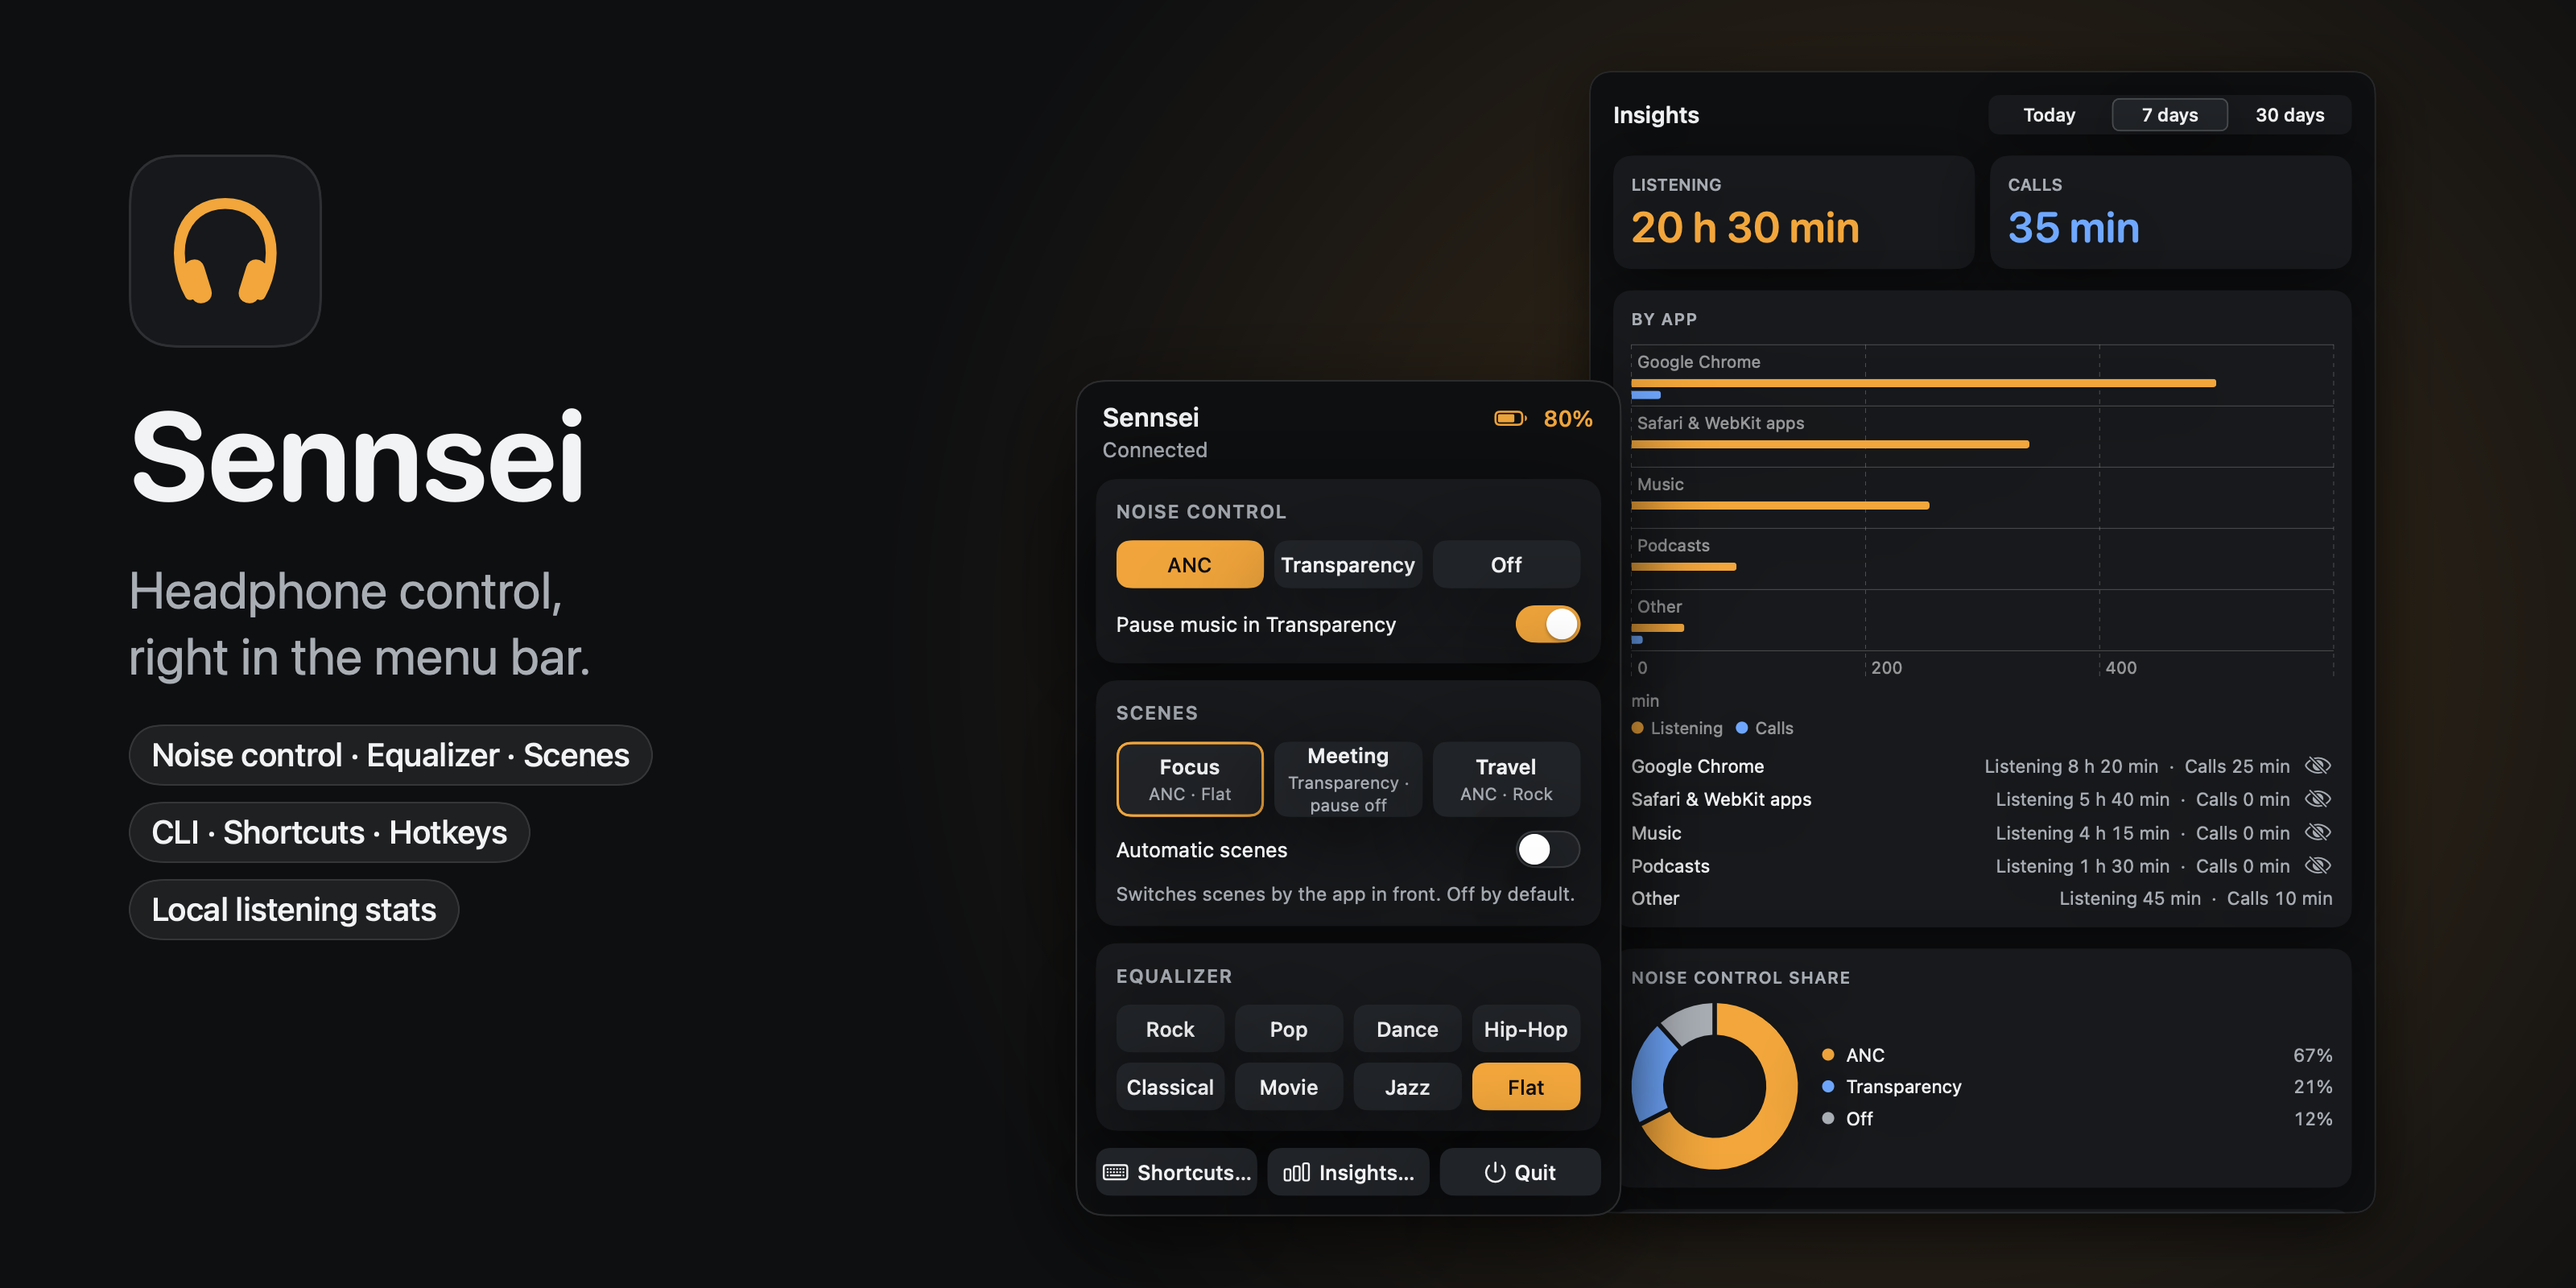
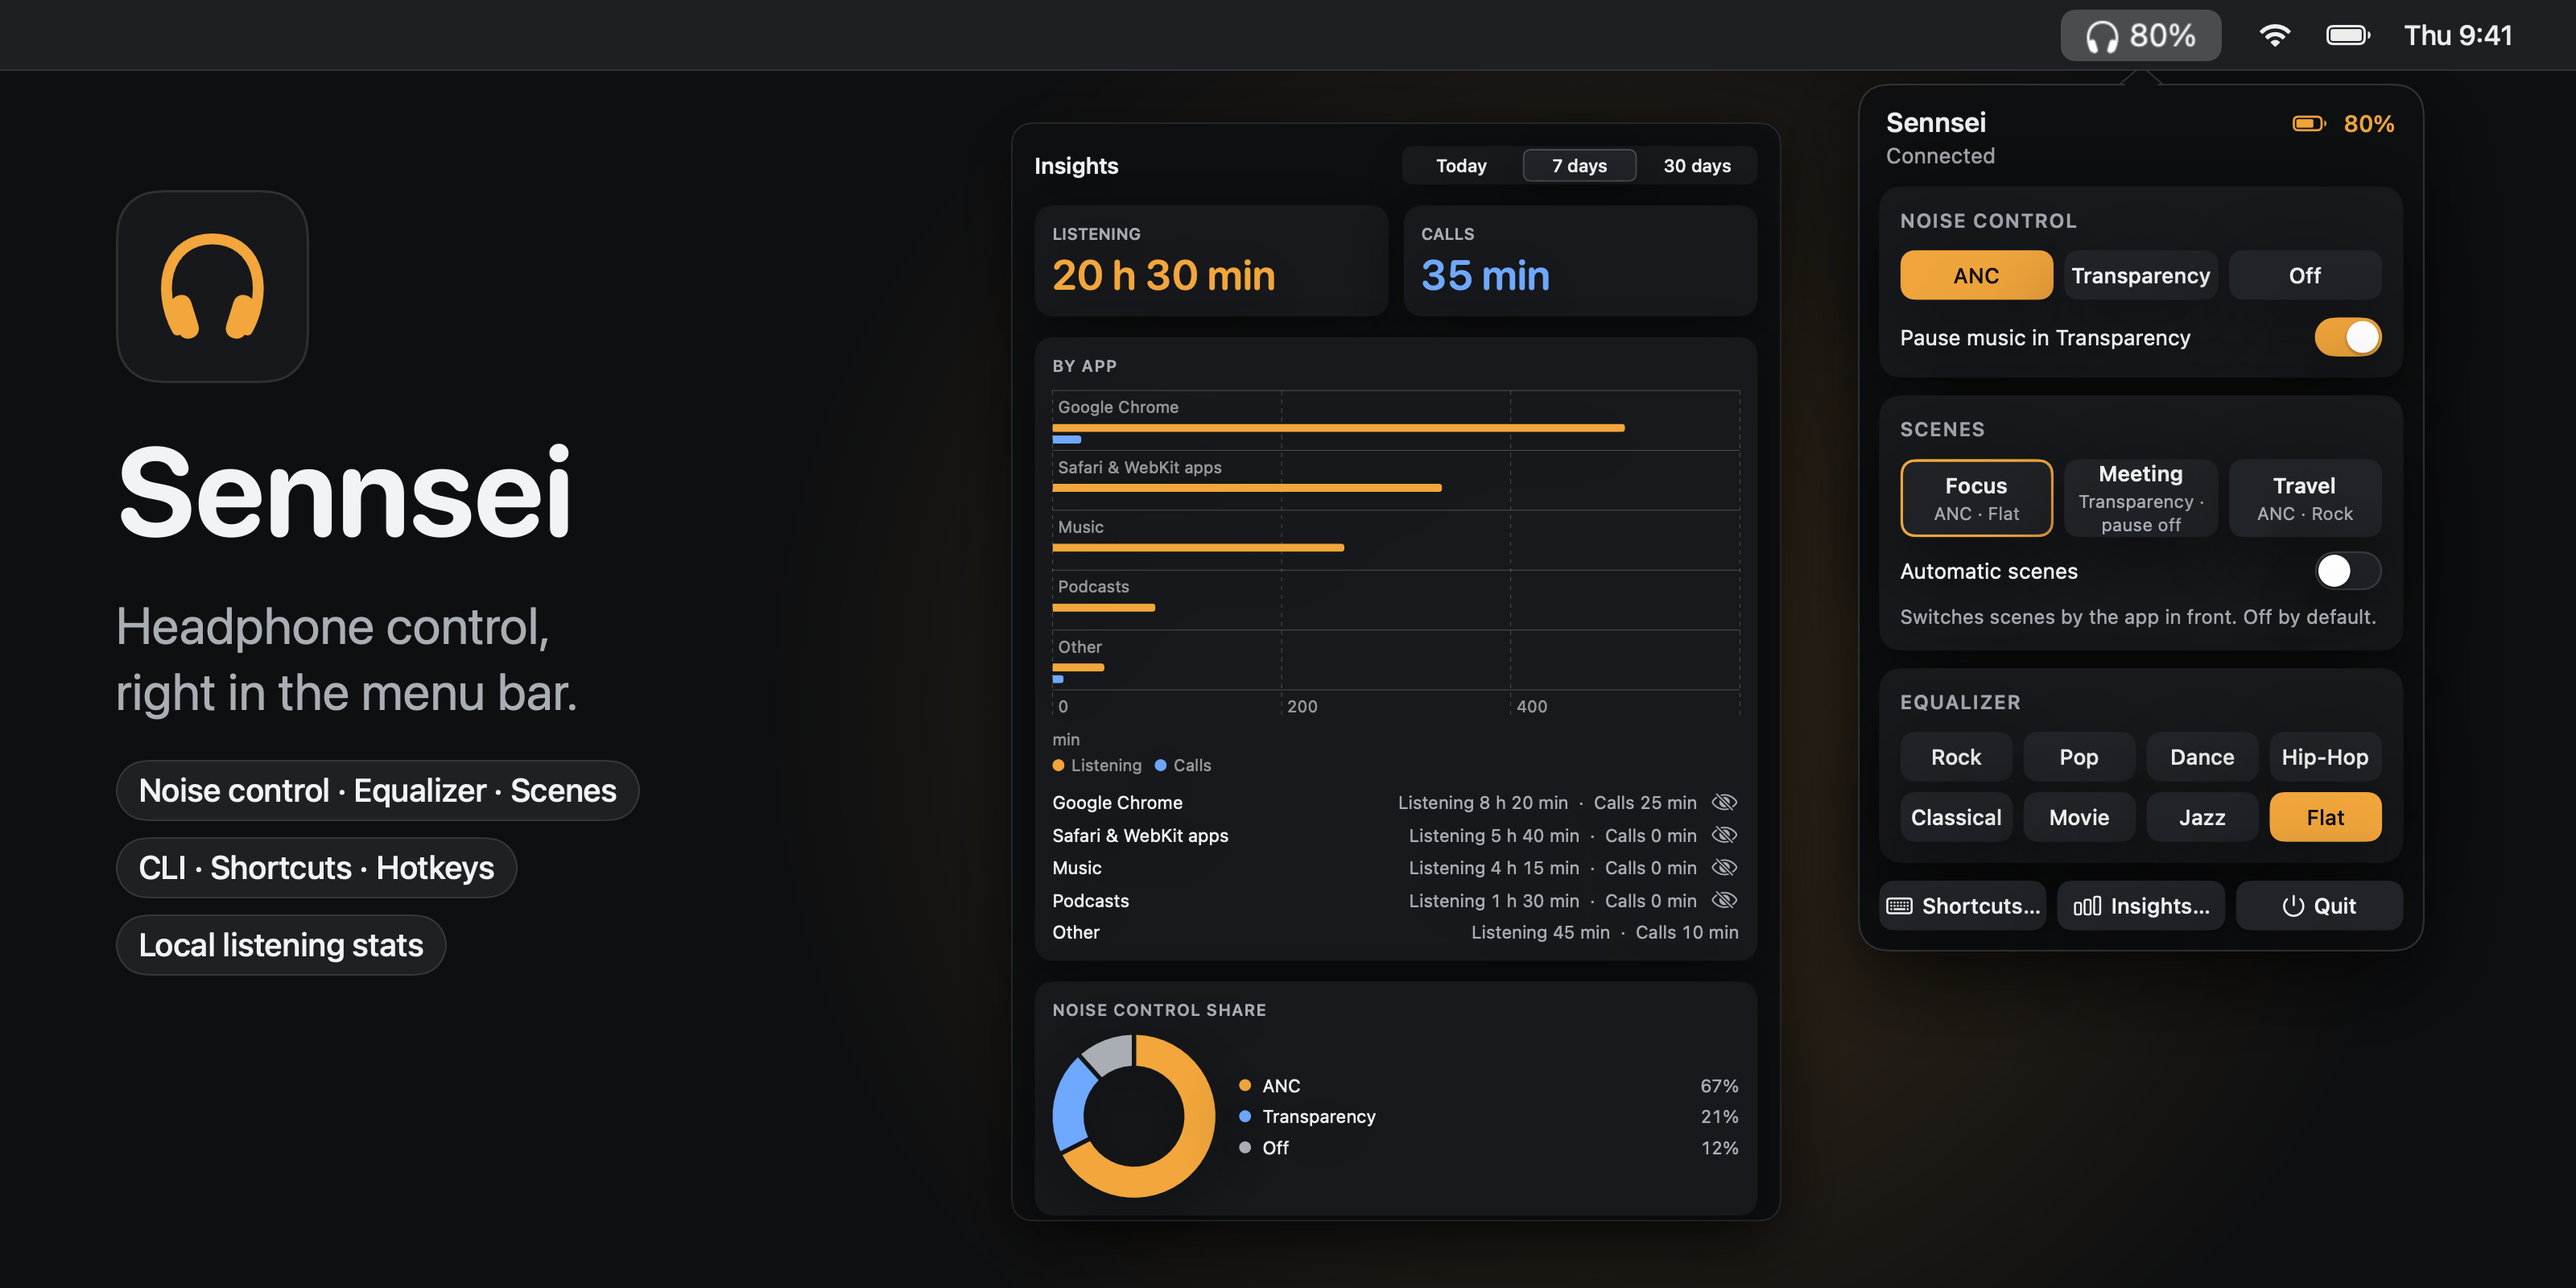
docs: hero with the menu bar attached panel

diff --git a/Packages/HeadsetKit/Sources/SennseiApp/PreviewRenderer.swift b/Packages/HeadsetKit/Sources/SennseiApp/PreviewRenderer.swift
@@ -108,20 +108,26 @@ enum PreviewRenderer {
     }
 }
 
-/// The repository's hero image (1600x800 points; README at 2x, GitHub social preview at 0.8x): mark, name,
-/// tagline and feature lines on the left, the Insights window (top part) behind and the panel in front.
+/// The repository's hero image (1600x800 points; README at 2x, GitHub social preview at 0.8x): a menu bar strip
+/// with the Sennsei item and the panel hanging from it like a popover, the Insights window (top part) to its
+/// left, and mark, name, tagline and feature lines at the far left.
 private struct HeroImage<Panel: View, Insights: View>: View {
     let panel: Panel
     let insights: Insights
 
     private let graphite = Color(red: 0x0E / 255, green: 0x0F / 255, blue: 0x11 / 255)
+    private let barHeight: CGFloat = 44
+    /// Horizontal centre of the Sennsei item; the panel's notch is centred under it.
+    private let itemCenter: CGFloat = 1330
+    private let panelScale: CGFloat = 1.1
 
     var body: some View {
         ZStack(alignment: .topLeading) {
             graphite
             RadialGradient(
-                colors: [Palette.amber.opacity(0.20), .clear], center: UnitPoint(x: 0.74, y: 0.5),
-                startRadius: 10, endRadius: 640)
+                colors: [Palette.amber.opacity(0.18), .clear], center: UnitPoint(x: 0.62, y: 0.55),
+                startRadius: 10, endRadius: 520)
+
             VStack(alignment: .leading, spacing: 20) {
                 AppMark(size: 120)
                 Text("Sennsei")
@@ -143,30 +149,82 @@ private struct HeroImage<Panel: View, Insights: View>: View {
                 }
                 .padding(.top, 4)
             }
-            .padding(.leading, 80)
-            .padding(.top, 96)
+            .padding(.leading, 72)
+            .padding(.top, 118)
 
-            // Insights: only the top part (header, totals, by-app chart, noise share), behind the panel.
+            // Insights: only the top part (header, totals, by-app chart, noise share).
             insights
                 .fixedSize()
-                .frame(width: 520, height: 755, alignment: .top)
+                .frame(width: 520, height: 742, alignment: .top)
                 .clipped()
                 .clipShape(RoundedRectangle(cornerRadius: 14, style: .continuous))
                 .overlay(RoundedRectangle(cornerRadius: 14, style: .continuous).strokeBorder(Color.white.opacity(0.10), lineWidth: 1))
                 .shadow(color: .black.opacity(0.5), radius: 22, y: 10)
-                .scaleEffect(0.94, anchor: .topLeading)
-                .offset(x: 987, y: 44)
+                .scaleEffect(0.92, anchor: .topLeading)
+                .offset(x: 628, y: 76)
+
+            // The panel, hanging from the menu bar item like a popover.
             panel
                 .fixedSize()
                 .clipShape(RoundedRectangle(cornerRadius: 16, style: .continuous))
-                .overlay(RoundedRectangle(cornerRadius: 16, style: .continuous).strokeBorder(Color.white.opacity(0.12), lineWidth: 1))
+                .overlay(RoundedRectangle(cornerRadius: 16, style: .continuous).strokeBorder(Color.white.opacity(0.14), lineWidth: 1))
                 .shadow(color: .black.opacity(0.6), radius: 28, y: 14)
-                .scaleEffect(1.06, anchor: .topLeading)
-                .offset(x: 668, y: 236)
+                .scaleEffect(panelScale, anchor: .topLeading)
+                .offset(x: itemCenter - 320 * panelScale / 2, y: barHeight + 8)
+            Notch()
+                .fill(Palette.ground)
+                .overlay(Notch().stroke(Color.white.opacity(0.14), lineWidth: 1))
+                .frame(width: 26, height: 11)
+                .offset(x: itemCenter - 13, y: barHeight - 3)
+            // Hide the notch's own outline where it joins the panel.
+            Palette.ground.frame(width: 20, height: 3).offset(x: itemCenter - 10, y: barHeight + 7)
+
+            menuBar
         }
         .frame(width: 1600, height: 800, alignment: .topLeading)
         .clipped()
         .environment(\.colorScheme, .dark)
+    }
+
+    private var menuBar: some View {
+        let glyph = MenuBarGlyph.image(symbolName: "headphones", text: "\(PreviewSamples.batteryPercent)%")
+        let scale: CGFloat = 1.5
+        return ZStack(alignment: .topLeading) {
+            Color(red: 0x1D / 255, green: 0x1F / 255, blue: 0x23 / 255)
+            Rectangle().fill(Color.white.opacity(0.09)).frame(height: 1).offset(y: barHeight - 1)
+            // The item as it looks while its panel is open: highlighted pill, template glyph drawn white.
+            let width = glyph.size.width * scale + 28
+            RoundedRectangle(cornerRadius: 9, style: .continuous)
+                .fill(Color.white.opacity(0.20))
+                .frame(width: width, height: 32)
+                .offset(x: itemCenter - width / 2, y: 6)
+            Image(nsImage: glyph)
+                .renderingMode(.template)
+                .resizable()
+                .interpolation(.high)
+                .foregroundStyle(Color.white)
+                .frame(width: glyph.size.width * scale, height: glyph.size.height * scale)
+                .offset(x: itemCenter - glyph.size.width * scale / 2, y: (barHeight - glyph.size.height * scale) / 2)
+            HStack(spacing: 18) {
+                Image(systemName: "wifi").font(.system(size: 17, weight: .medium))
+                Image(systemName: "battery.100percent").font(.system(size: 19, weight: .regular))
+                Text("Thu 9:41").font(.system(size: 17, weight: .medium))
+            }
+            .foregroundStyle(Color.white.opacity(0.92))
+            .frame(height: barHeight)
+            .offset(x: itemCenter + (glyph.size.width * scale + 28) / 2 + 22)
+        }
+        .frame(width: 1600, height: barHeight, alignment: .topLeading)
+    }
+}
+
+private struct Notch: Shape {
+    func path(in rect: CGRect) -> Path {
+        var path = Path()
+        path.move(to: CGPoint(x: rect.minX, y: rect.maxY))
+        path.addLine(to: CGPoint(x: rect.midX, y: rect.minY))
+        path.addLine(to: CGPoint(x: rect.maxX, y: rect.maxY))
+        return path
     }
 }
 

diff --git a/README.md b/README.md
@@ -31,7 +31,7 @@ brew install --cask onlyilkr/tap/sennsei
 > (see [Credits](#credits)), and contains no code, files or data from the official app.
 
 <p align="center">
-  <img src="docs/images/hero.png" width="100%" alt="Sennsei: the menu bar panel in front of the Insights window. The panel shows the headphones connected at 80 percent battery with noise control, scenes and equalizer presets; behind it Insights shows 20 hours 30 minutes of listening and 35 minutes of calls in a week, listening per app and the noise control share. Beside them: the Sennsei icon and the line Headphone control, right in the menu bar.">
+  <img src="docs/images/hero.png" width="100%" alt="Sennsei hero image. Along the top, a macOS menu bar with the Sennsei item (headphones and 80 percent) highlighted, and the Sennsei panel hanging directly below it: connected, noise control with ANC selected, three scenes with Focus active, and equalizer presets with Flat selected. To the left of the panel, the Insights window showing 20 hours 30 minutes of listening and 35 minutes of calls in a week, listening per app and the noise control share. At the far left, the Sennsei icon, the name and the line Headphone control, right in the menu bar.">
 </p>
 
 <sub>The images in this README are generated from sample data (`make preview`). The switch, segmented picker
